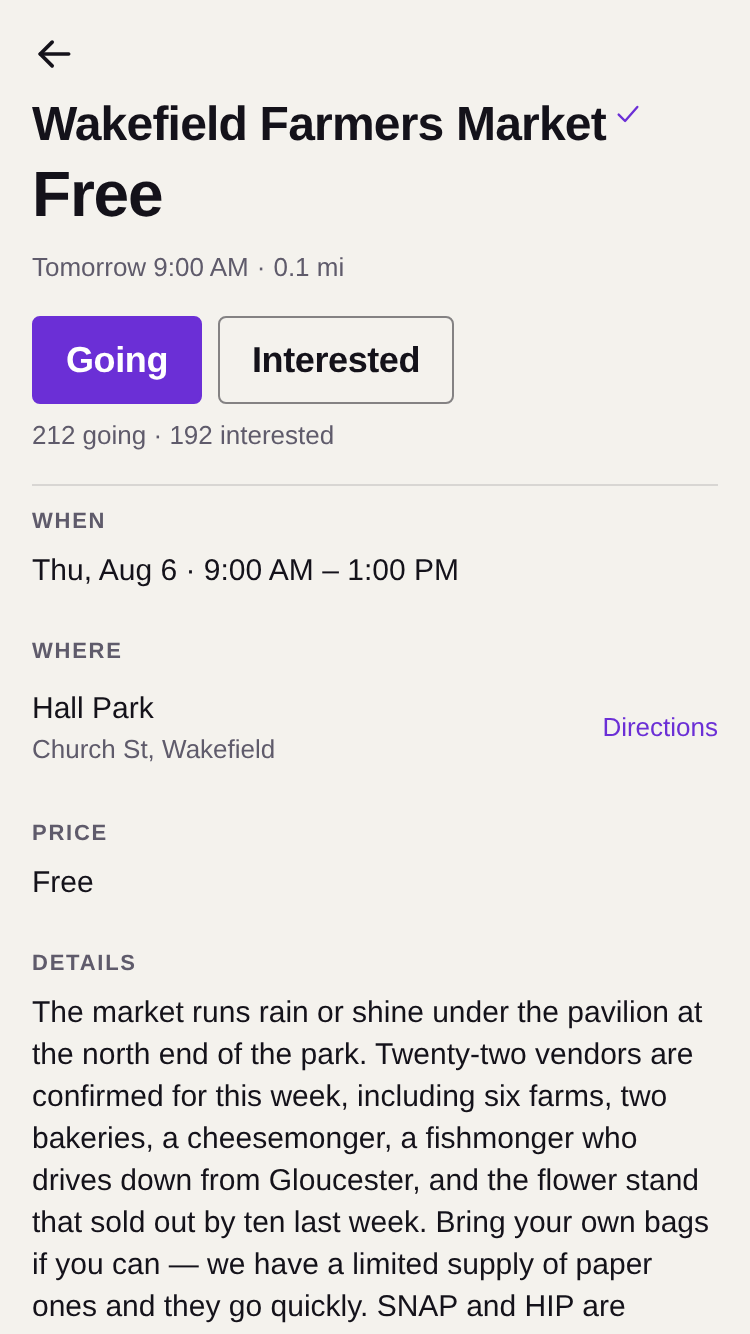
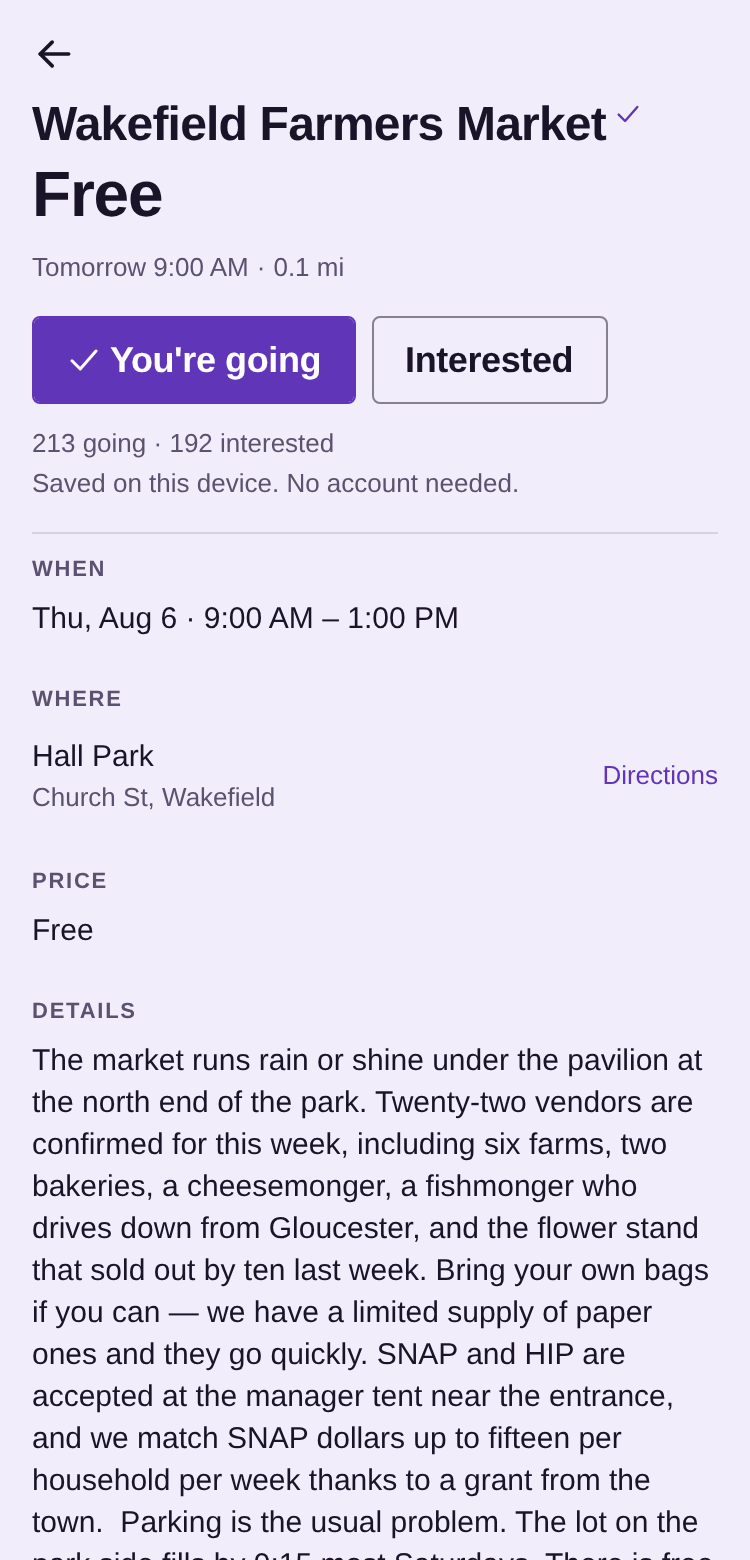
Ship Lilac as the app palette
Chosen from six candidates in docs/COLOR-STUDY.md. Pastel purple page, white
cards, soft yellow accent, deeper purple for anything that has to clear 4.5:1 as
text.

The rule that makes it work: the pastel is the page and cards stay white. A pastel
cannot carry body text and cannot be text on white, so a tinted field behind white
cards is its only honest job -- which also keeps every description on plain white.

All pairings pass WCAG AA; textPrimary on page measures 15.6:1 and brand text on
surface 7.8:1. DESIGN.md updated to document the shipping palette and the verified
mark's new position.

Claude-Session: https://claude.ai/code/session_01UwXsWN6AgHJxBwtVC15pVB

diff --git a/src/design/tokens.ts b/src/design/tokens.ts
@@ -12,34 +12,38 @@
  * semantic `theme` below, so dark mode and future retheming stay a one-file change.
  */
 export const palette = {
-  ink: '#14121A',
-  inkSoft: '#2A2733',
+  ink: '#191428',
   paper: '#FFFFFF',
-  bone: '#F4F2ED',
-  boneDeep: '#E7E3DA',
-
-  grape: '#6B2FD6',
-  grapeDeep: '#3E1A80',
-  grapeLight: '#A87DFF',
-  /** Dark-mode pressed state. Stays light so `ink` remains legible on it. */
-  grapeMid: '#9A6DF5',
-
-  sun: '#FFC72C',
-  sunDeep: '#D9A312',
 
   /**
-   * Darkened from the #6A6675 in DESIGN.md: the original measured 4.52:1 on `bone`,
-   * which clears WCAG AA by 0.02 and fails the moment anything shifts. 5.3:1 here.
+   * The pastel field. This is the page, and cards stay `paper` on top of it.
+   * A pastel cannot carry body text and cannot be text on white, so a tinted field
+   * behind white cards is its only honest job — which also keeps every description
+   * on plain white, where long text is easiest to read. See docs/COLOR-STUDY.md.
    */
-  slate: '#5F5B6B',
-  slateLight: '#9A96A6',
+  lilac: '#F2EDFB',
+  lilacDeep: '#E6DCF6',
 
-  flag: '#C4342B',
-  flagLight: '#E8635A',
+  /** Deeper members of the same family, because these have to clear 4.5:1 as text. */
+  grape: '#6035B8',
+  grapeDeep: '#42217F',
+  grapeLight: '#C4AAF5',
+  /** Dark-mode pressed state. Stays light so `ink` remains legible on it. */
+  grapeMid: '#A98BE8',
 
-  night: '#0E0D12',
-  nightSurface: '#1A1820',
-  nightRaised: '#232029',
+  /** Accent only, and only ever as a fill behind `ink`. Never text on white. */
+  sun: '#FFDE7A',
+  sunDeep: '#E5BE45',
+
+  slate: '#5B5270',
+  slateLight: '#A79CC2',
+
+  flag: '#B02D26',
+  flagLight: '#EE7268',
+
+  night: '#141020',
+  nightSurface: '#1E1830',
+  nightRaised: '#28203D',
 } as const;
 
 /* -------------------------------------------------------------------- theme */
@@ -80,18 +84,18 @@ export type Theme = {
 export const lightTheme: Theme = {
   scheme: 'light',
   color: {
-    page: palette.bone,
+    page: palette.lilac,
     surface: palette.paper,
     surfaceRaised: palette.paper,
-    surfaceSunken: palette.boneDeep,
+    surfaceSunken: palette.lilacDeep,
 
     textPrimary: palette.ink,
     textSecondary: palette.slate,
     textOnBrand: palette.paper,
     textOnAccent: palette.ink,
 
-    border: 'rgba(20, 18, 26, 0.12)',
-    borderStrong: 'rgba(20, 18, 26, 0.50)',
+    border: 'rgba(25, 20, 40, 0.12)',
+    borderStrong: 'rgba(25, 20, 40, 0.50)',
 
     brand: palette.grape,
     brandPressed: palette.grapeDeep,
@@ -99,8 +103,8 @@ export const lightTheme: Theme = {
     accentPressed: palette.sunDeep,
     danger: palette.flag,
 
-    overlay: 'rgba(20, 18, 26, 0.40)',
-    skeleton: palette.boneDeep,
+    overlay: 'rgba(25, 20, 40, 0.40)',
+    skeleton: palette.lilacDeep,
   },
 };
 
@@ -112,7 +116,7 @@ export const darkTheme: Theme = {
     surfaceRaised: palette.nightRaised,
     surfaceSunken: palette.night,
 
-    textPrimary: palette.bone,
+    textPrimary: '#EFEAFA',
     textSecondary: palette.slateLight,
     /**
      * Ink, not paper. The dark-scheme brand is a *light* purple, so white-on-brand
@@ -121,8 +125,8 @@ export const darkTheme: Theme = {
     textOnBrand: palette.ink,
     textOnAccent: palette.ink,
 
-    border: 'rgba(244, 242, 237, 0.14)',
-    borderStrong: 'rgba(244, 242, 237, 0.38)',
+    border: 'rgba(239, 234, 250, 0.14)',
+    borderStrong: 'rgba(239, 234, 250, 0.38)',
 
     brand: palette.grapeLight,
     /** Deeper, but still light — a pressed state that inverts lightness breaks its label. */

diff --git a/DESIGN.md b/DESIGN.md
@@ -71,22 +71,28 @@ decorate one.**
 
 Purple and yellow stay, but disciplined — they're a **brand**, not a paint bucket.
 
+Shipping palette is **Lilac** — chosen in `docs/COLOR-STUDY.md` from six candidates.
+
 ```
-ink        #14121A   near-black. body text, borders, most type.
-paper      #FFFFFF   card and sheet backgrounds
-bone       #F4F2ED   page background. warm, not blue-grey.
-grape      #6B2FD6   brand purple. headers, active states, the wordmark.
-grape-deep #3E1A80   pressed states, dark surfaces
-sun        #FFC72C   accent only. prices, verified state, the post button.
-slate      #5F5B6B   secondary text. the only grey.
-flag       #C4342B   destructive, cancelled, report
+ink         #191428   near-black, purple-leaning. body text, borders, most type.
+paper       #FFFFFF   card and sheet backgrounds
+lilac       #F2EDFB   page background. pastel purple.
+lilac-deep  #E6DCF6   sunken surfaces, skeletons
+grape       #6035B8   brand. active chips, the wordmark, the Going fill.
+grape-deep  #42217F   pressed states
+sun         #FFDE7A   accent only. Interested, capacity badges.
+slate       #5B5270   secondary text. the only grey.
+flag        #B02D26   destructive, cancelled, report
 ```
 
 Rules:
-- Purple is chrome (header, active chips, wordmark). It is **not** the page background — a wall of
-  saturated purple behind scrolling content is both a tell and an accessibility problem.
+- **The pastel is the page; cards stay white.** A pastel cannot carry body text and cannot be text
+  on white, so a tinted field behind white cards is its only honest job — and it keeps every
+  description on plain white, where long text is easiest to read.
+- Purple is chrome and fills, never the page. A wall of saturated purple behind scrolling content
+  is both a tell and an accessibility problem.
 - Yellow is accent only. Never a large fill. Never a text color on white (fails contrast).
-- Everything ships checked at **WCAG AA**. `sun` on `ink` passes; `sun` on `paper` does not.
+- Everything ships checked at **WCAG AA**, enforced by `npm run audit:contrast`.
 
 ### Type
 
@@ -111,8 +117,10 @@ label       11/12  bold     ALL CAPS, tracked +0.08em — category chips, SPONSO
 
 Structured, not centered. Photo left at a fixed 88px square. Title dominant. Price right-aligned
 in display weight — the mock's big loud price is the best idea in it, keep it. Meta row along the
-bottom: distance · start time · going count. Verified check inline after the title at text size,
-not a floating badge sticker.
+bottom: distance · start time · going count. The verified check pins to the **right edge of the
+meta row**, so it lands at one constant x on every card — inline after the title its position moved
+with the title's length and jumped whenever the title wrapped, which made a column of cards look
+misaligned even though each was individually correct.
 
 ### Motion
 
